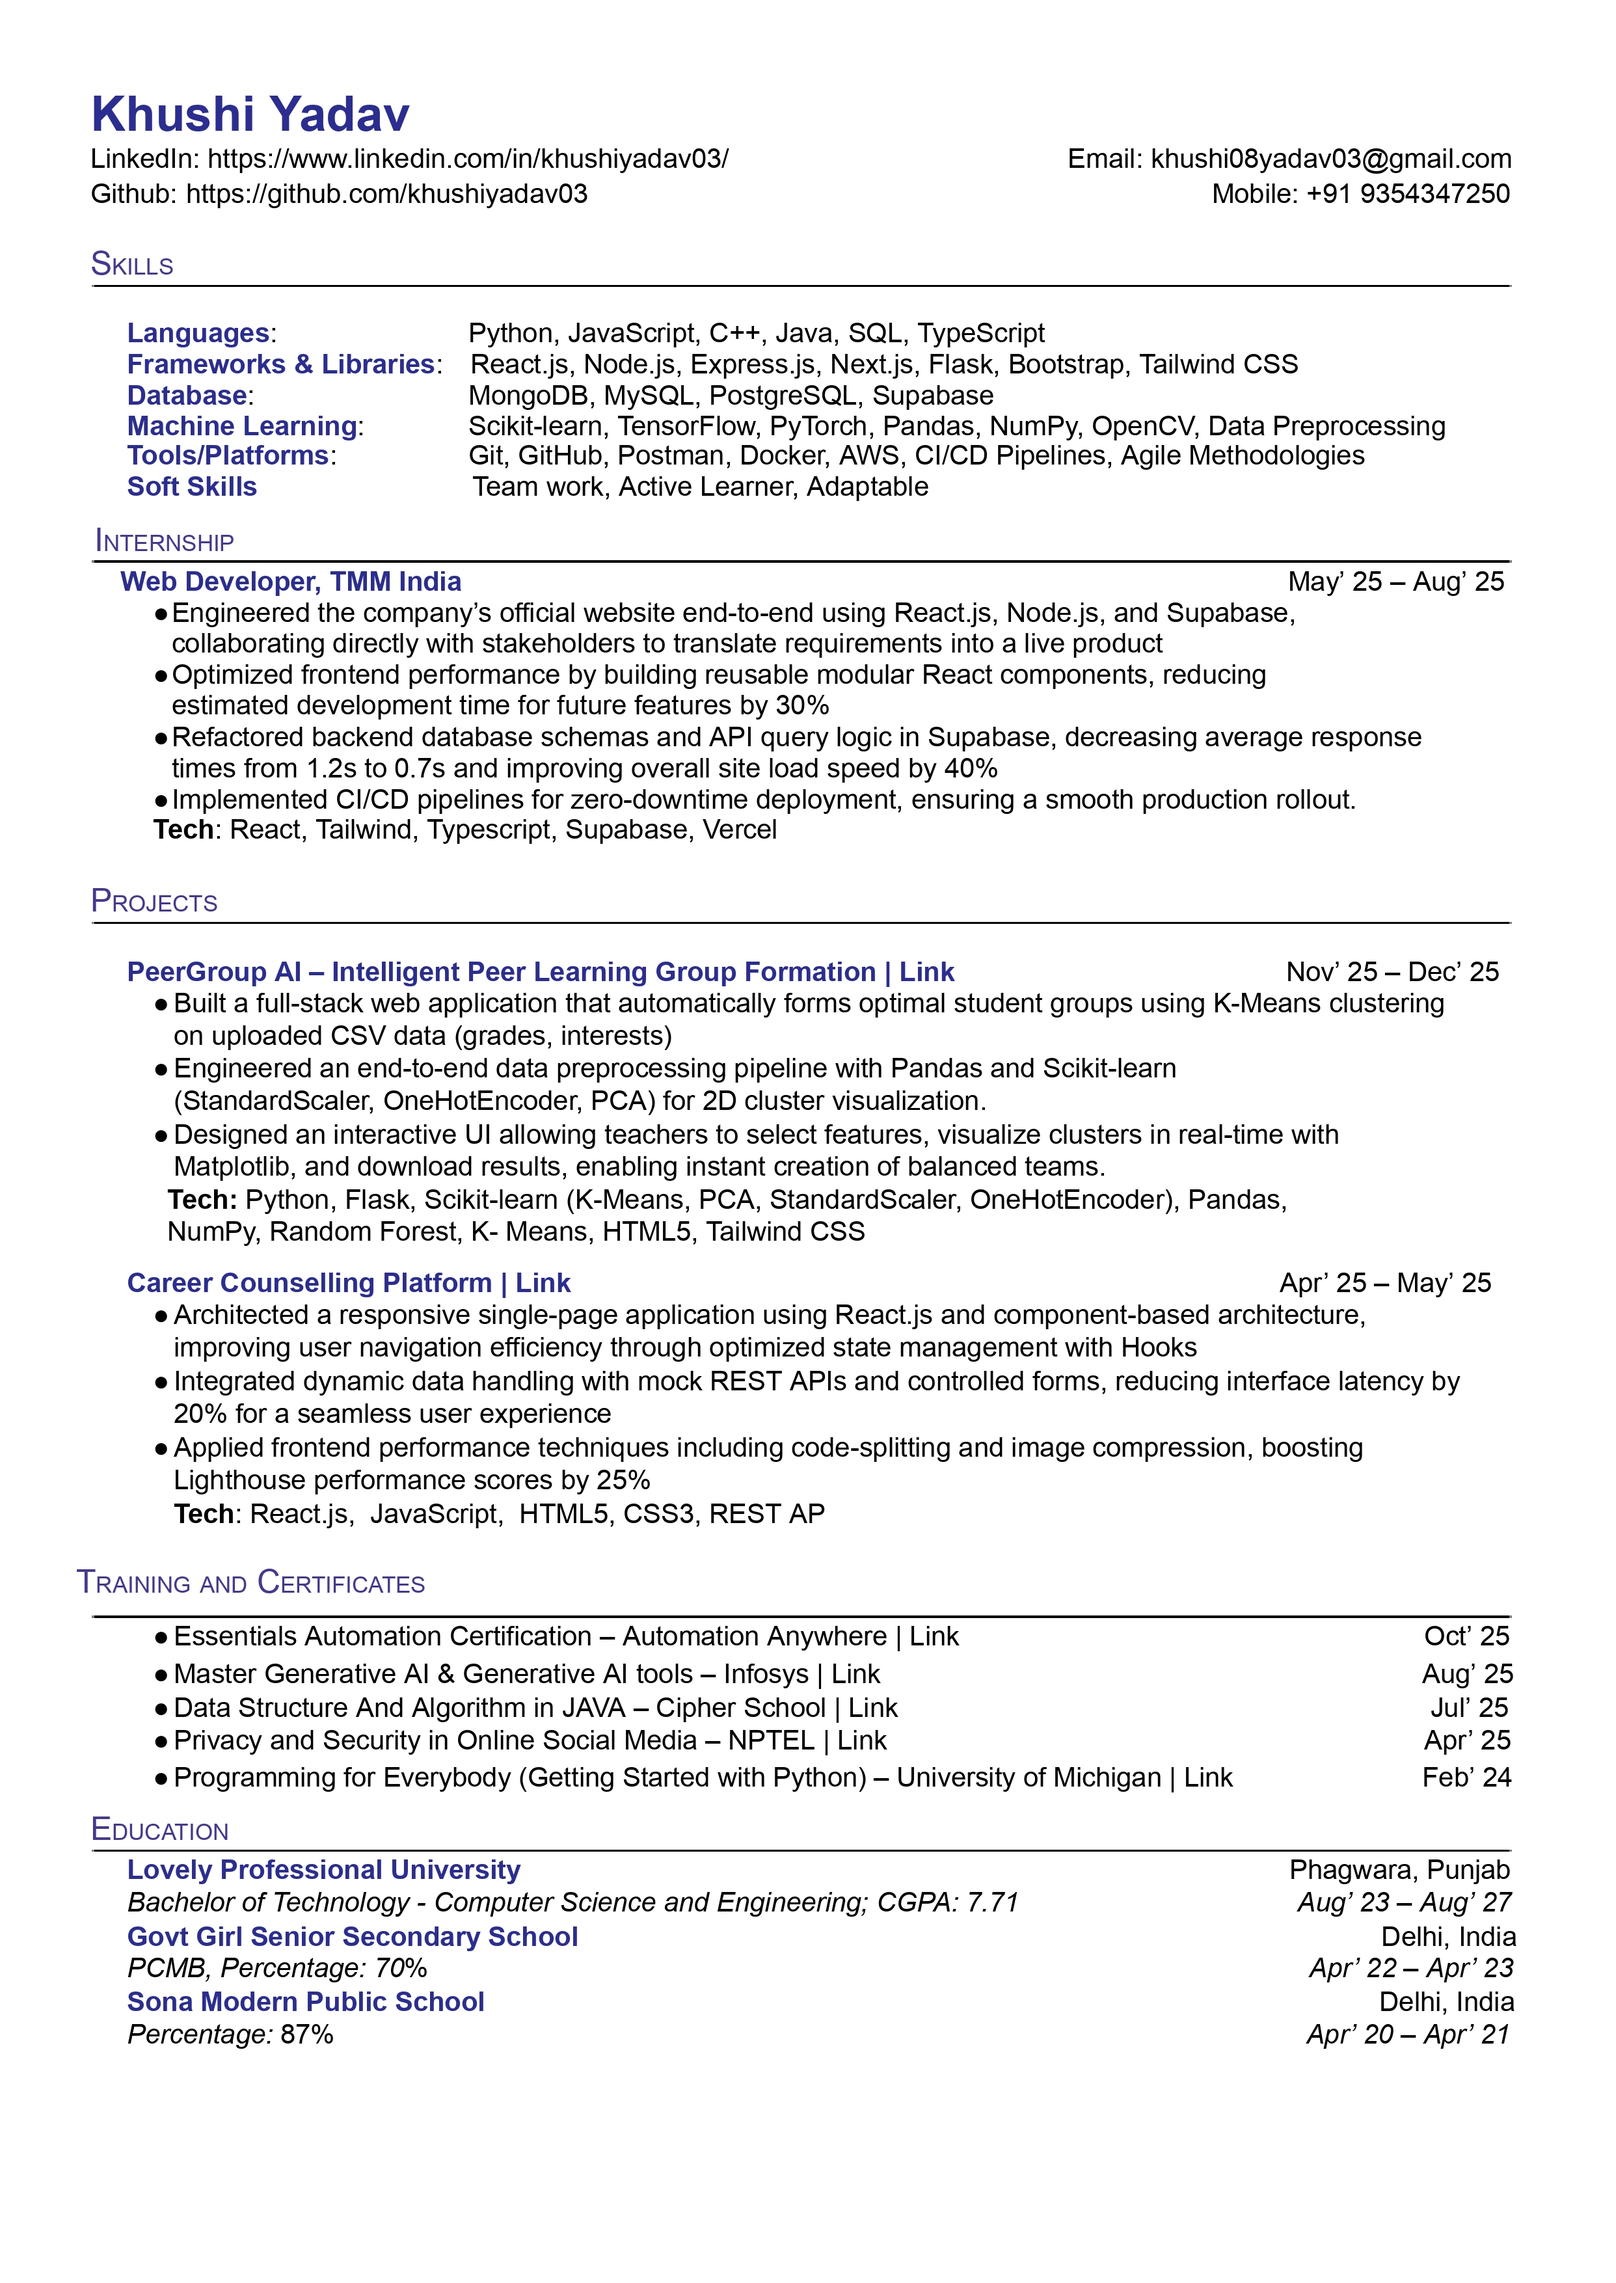
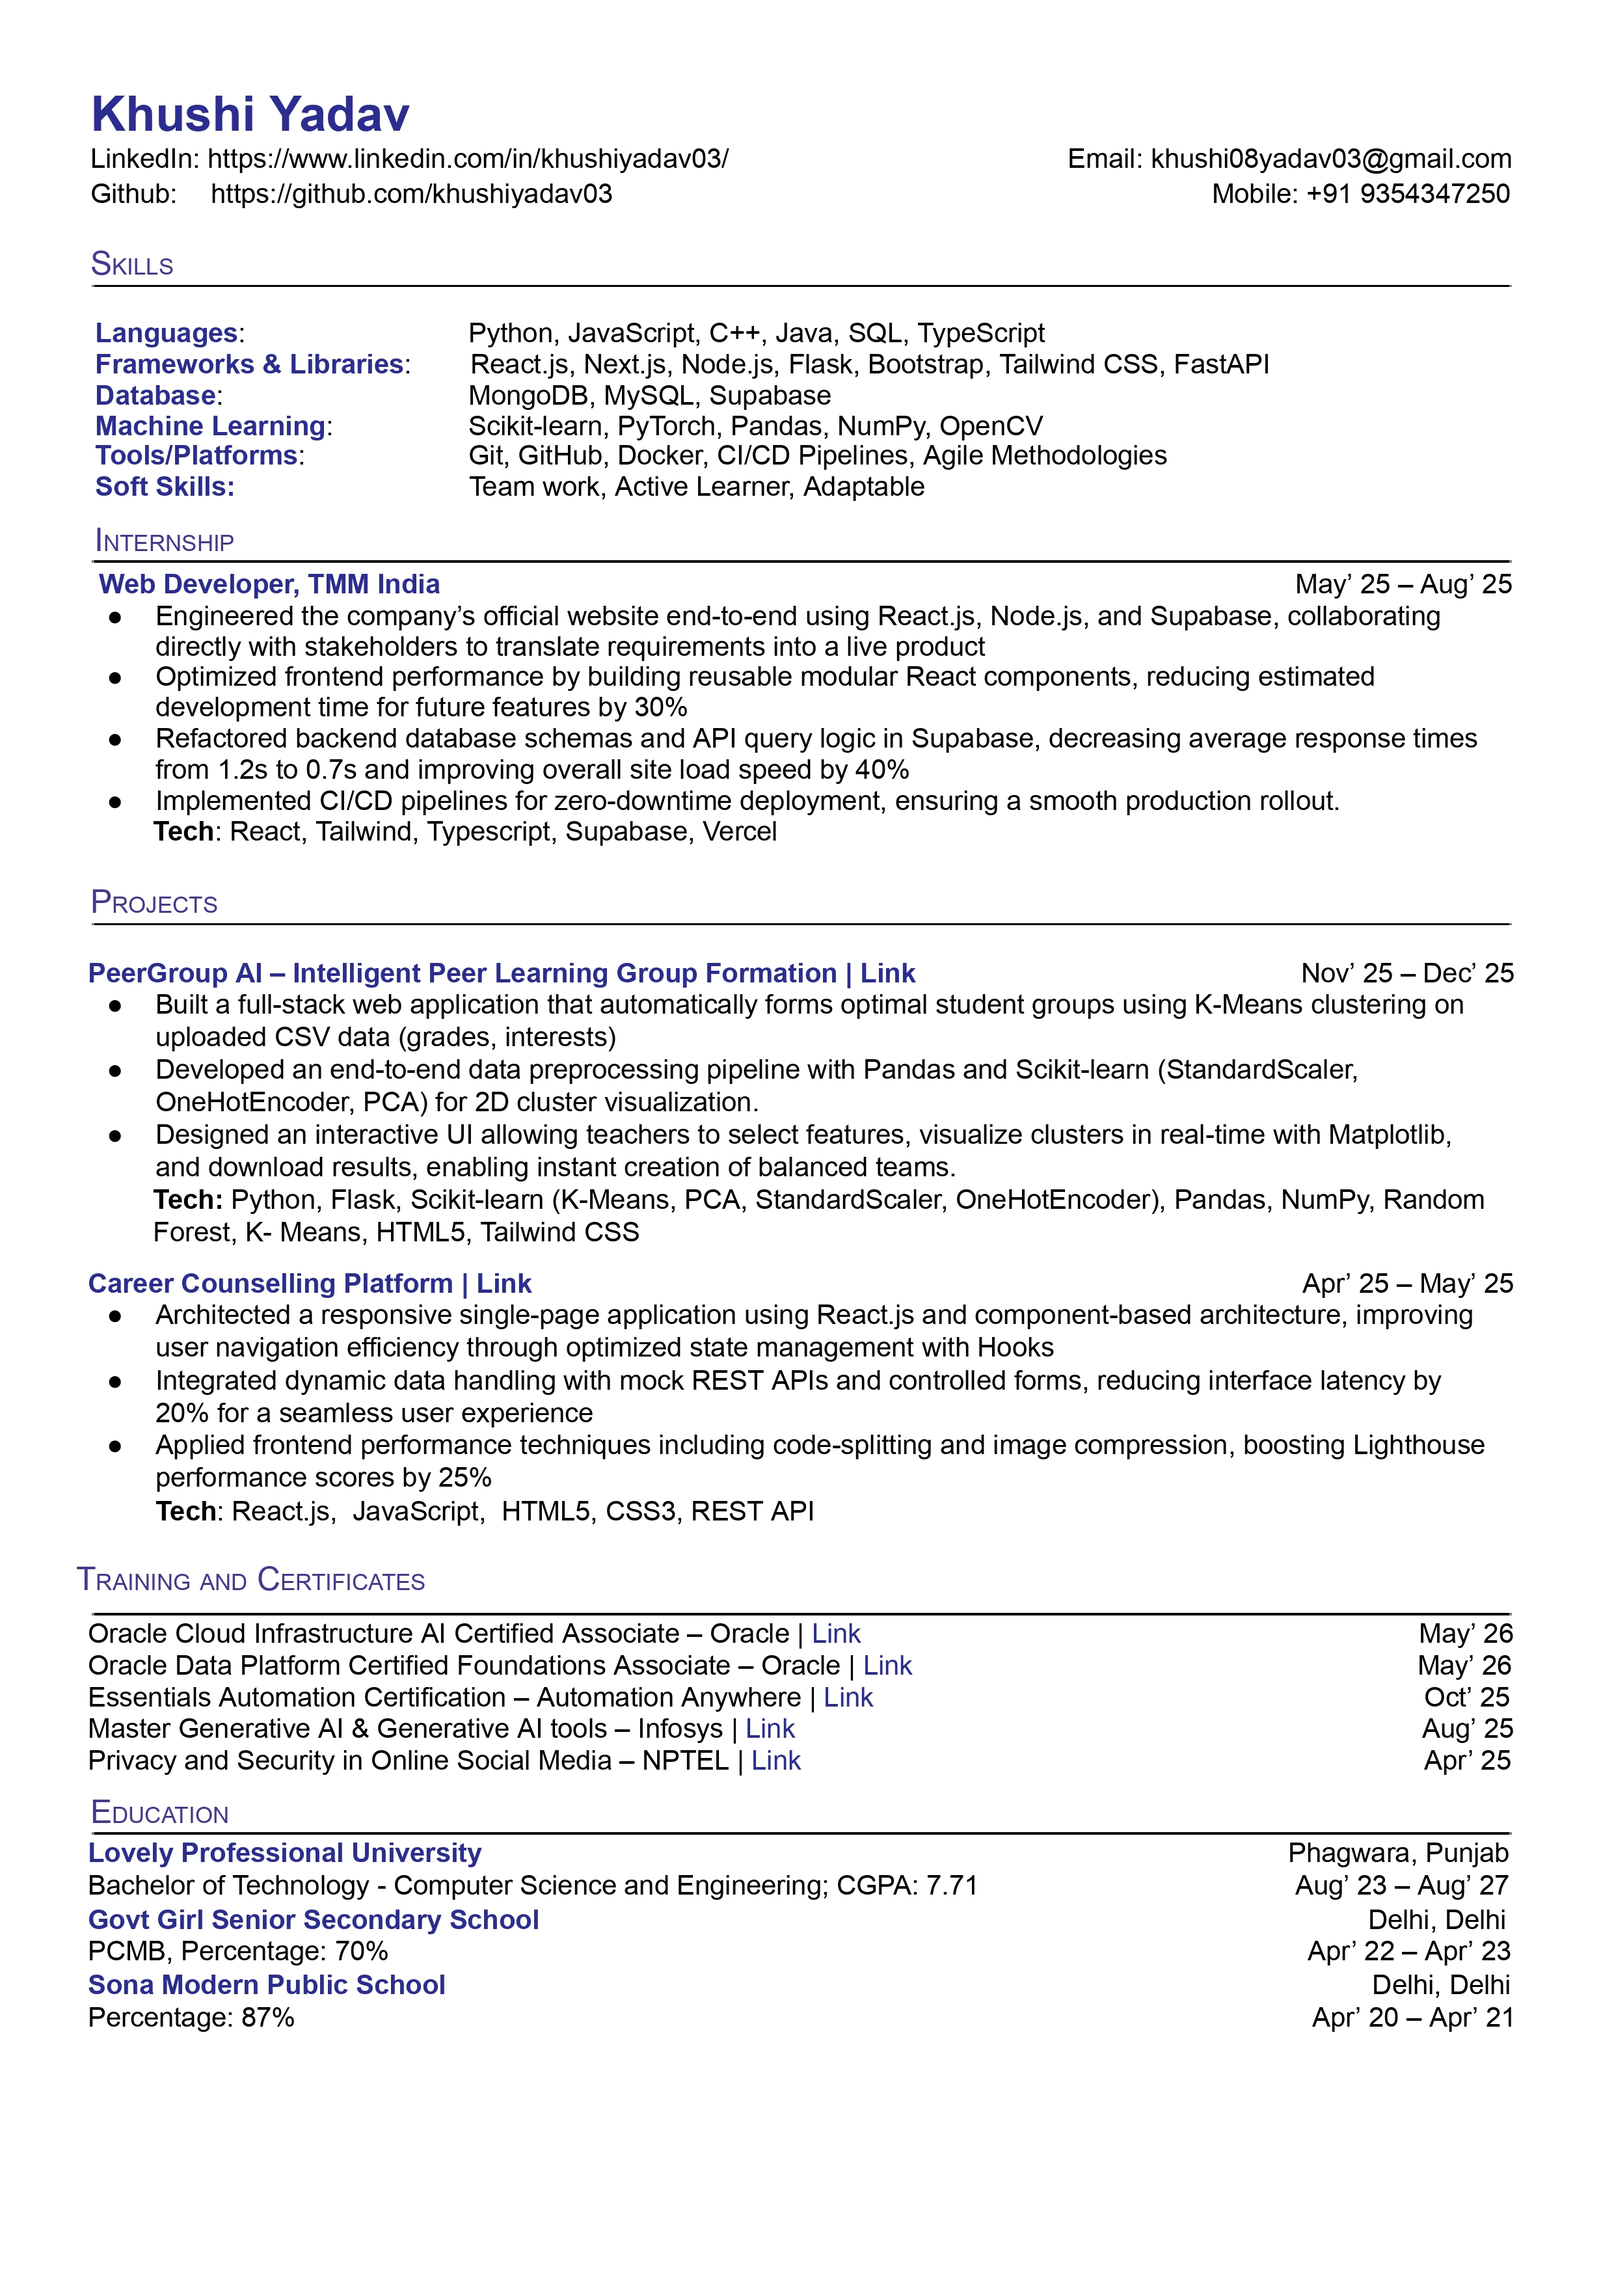
Update portfolio

diff --git a/index.html b/index.html
@@ -322,7 +322,7 @@
                             <div class="project-links">
                                 <a href="https://github.com/khushiyadav03/Career-Counselling-Platform" target="_blank"
                                     class="btn btn-outline btn-sm"><i class="fab fa-github"></i> GitHub</a>
-                                <a href="https://career-counselling-platform.onrender.com/" target="_blank"
+                                <a href="https://career-counselling-platform.vercel.app/" target="_blank"
                                     class="btn btn-primary btn-sm"><i class="fas fa-external-link-alt"></i> Live
                                     Demo</a>
                             </div>
